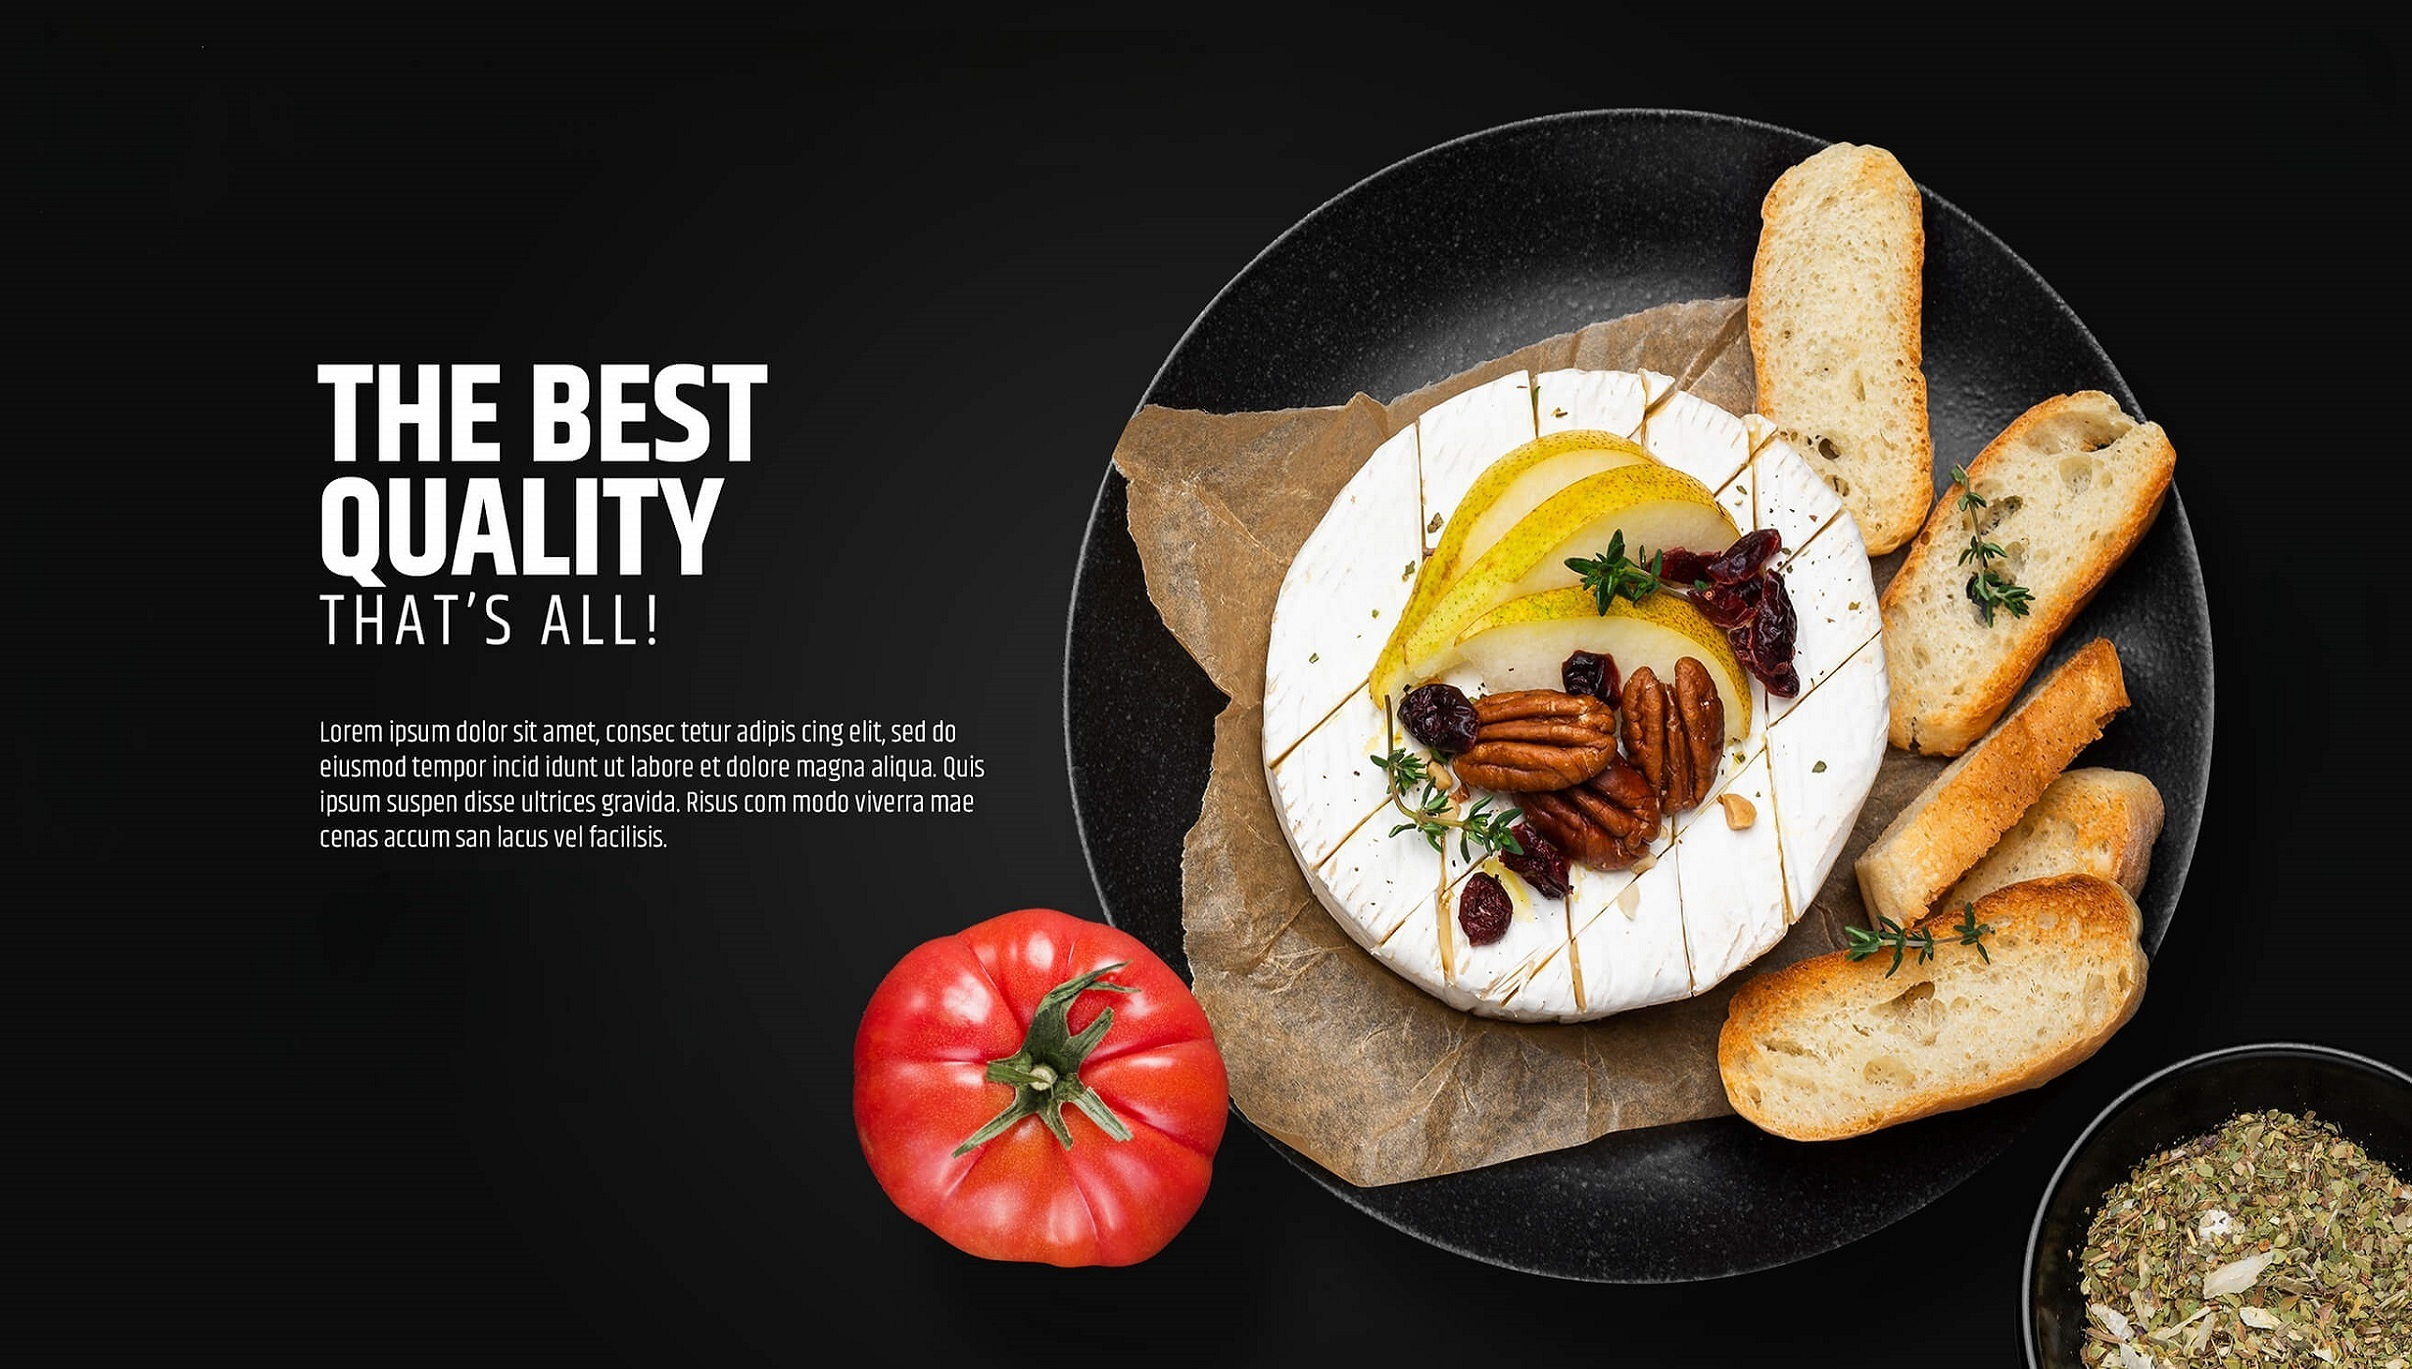
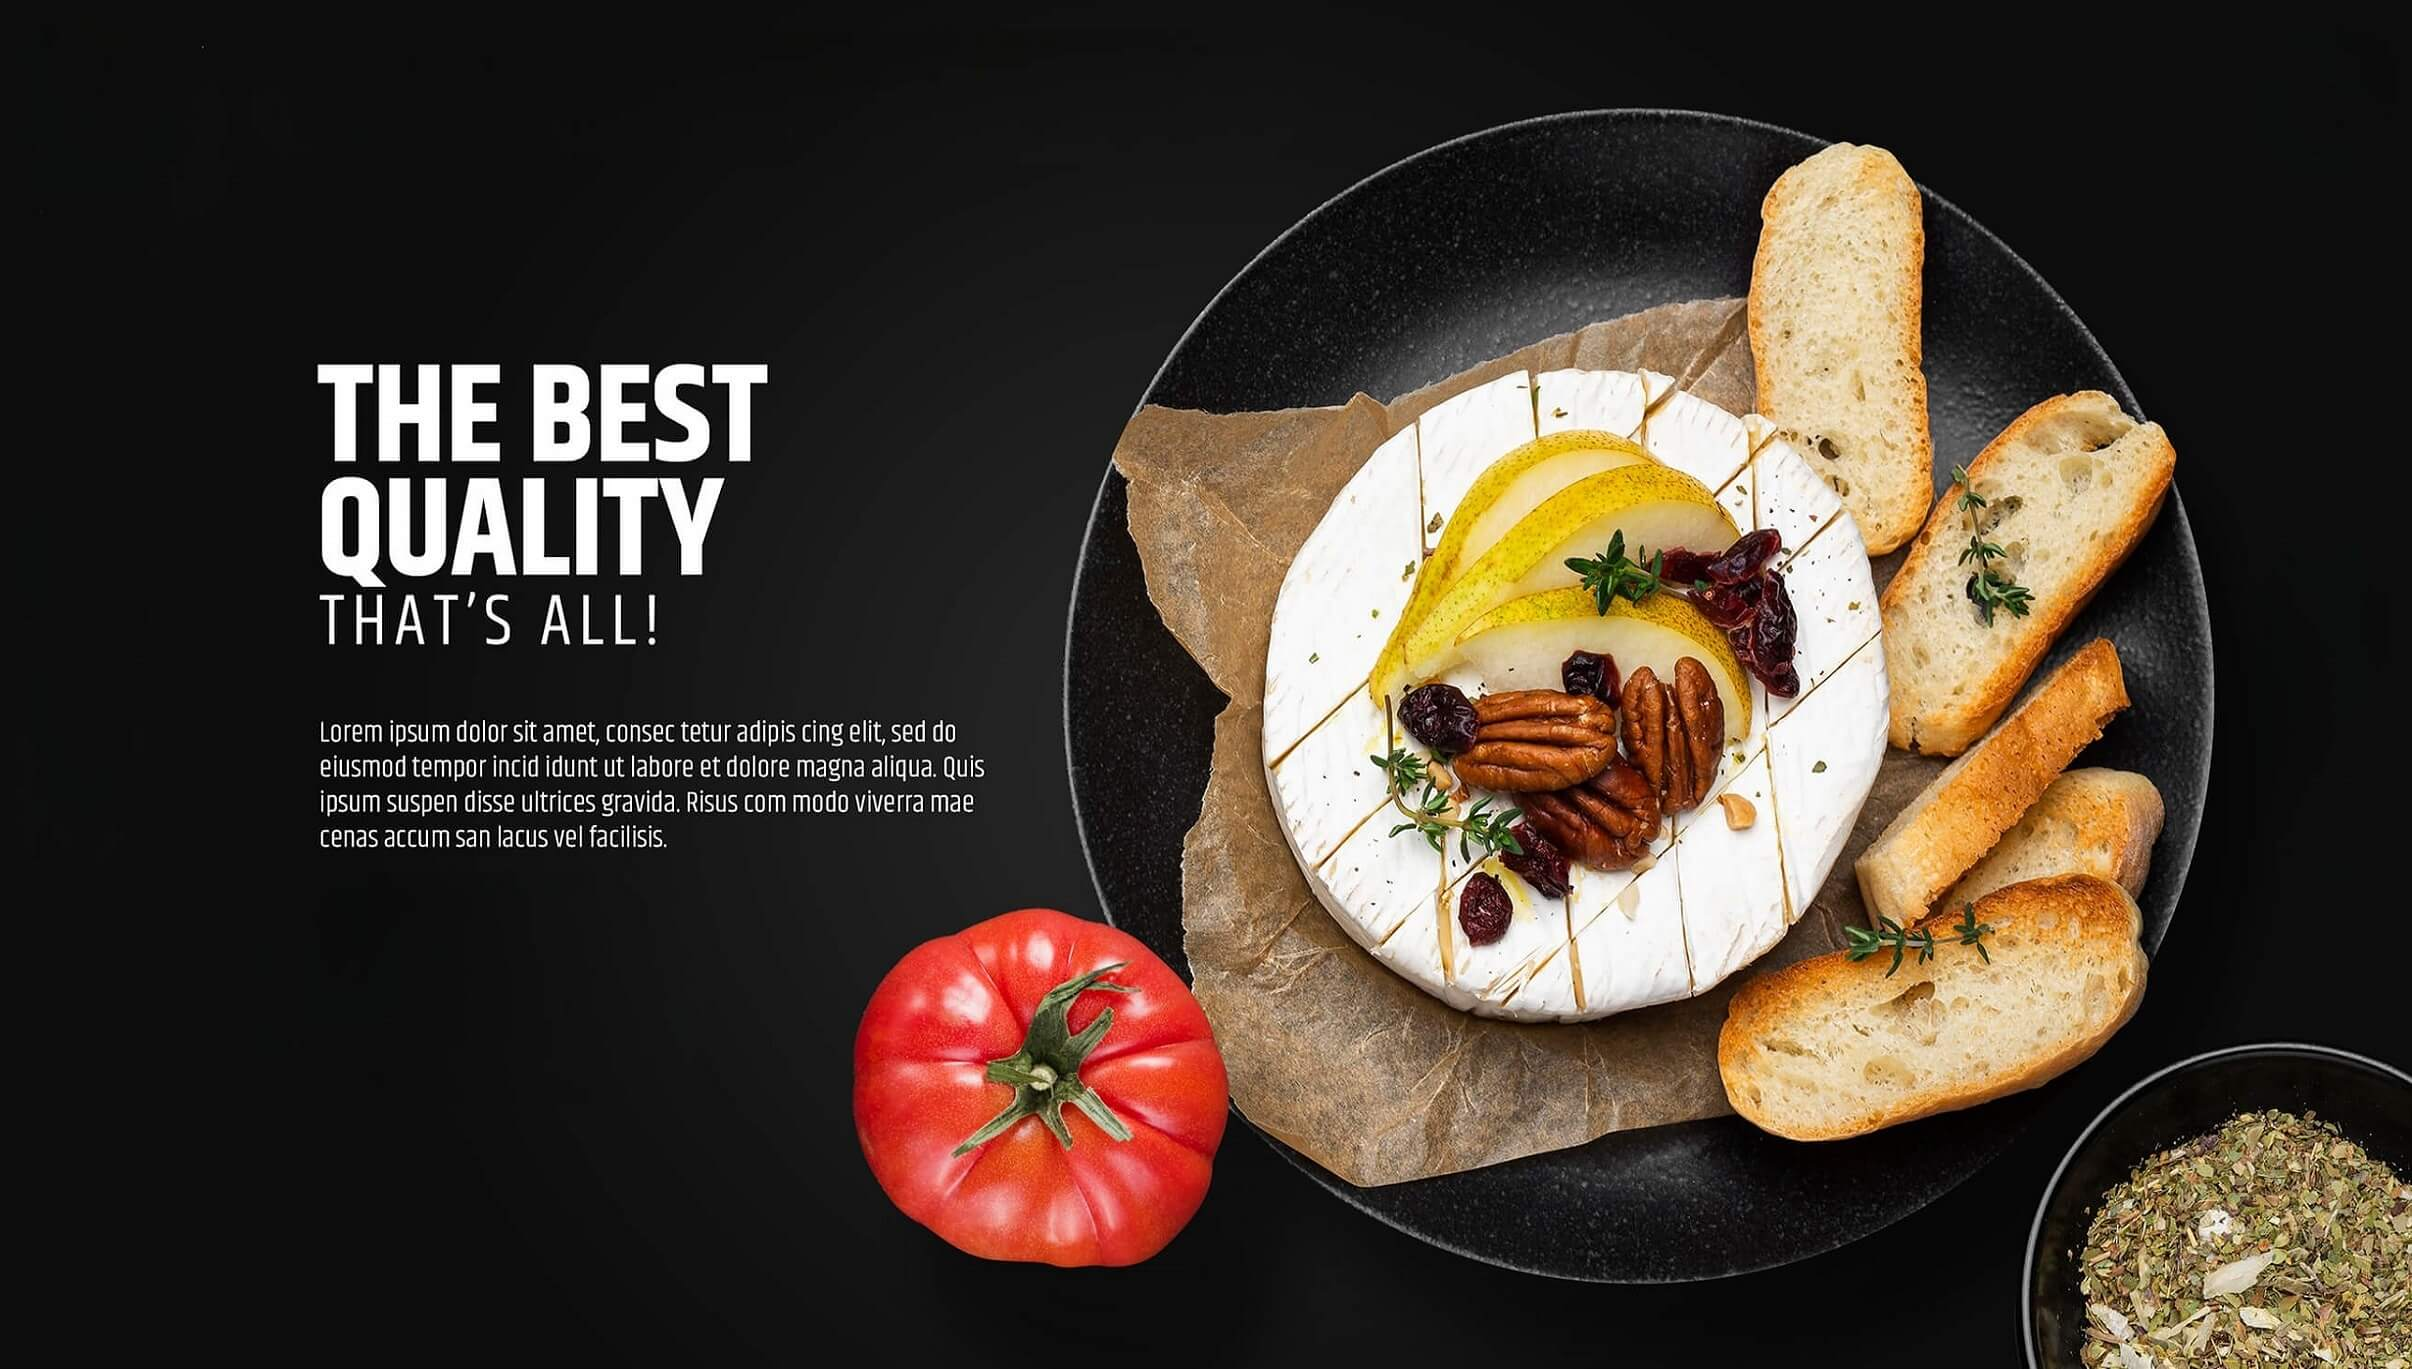
images more optimized

Changed region(s): [[0.995, 0.9511, 1.0, 1.0], [0.9328, 0.9817, 0.9639, 1.0]]

diff --git a/src/components/SocialLogin/SocialLogin.jsx b/src/components/SocialLogin/SocialLogin.jsx
@@ -30,7 +30,7 @@ const SocialLogin = () => {
               openModal({
                 title: `Welcome ${result.user.displayName} to Crave Station!!!`,
                 message: "Please check your email for exclusive offers!",
-                autoCloseTime: 6000,
+                autoCloseTime: 3000,
               });
             }
           });
@@ -39,7 +39,7 @@ const SocialLogin = () => {
           navigate(location?.state?.from || "/");
           openModal({
             title: `Welcome Back ${result.user.displayName} to Crave Station!!!`,
-            autoCloseTime: 4000,
+            autoCloseTime: 3000,
           });
         }
       })

diff --git a/src/Firebase/firebase.config.js b/src/Firebase/firebase.config.js
@@ -13,7 +13,6 @@ const firebaseConfig = {
   messagingSenderId:import.meta.env.VITE_FIREBASE_MESSAGING_SENDER_ID,
   appId: import.meta.env.VITE_FIREBASE_APP_ID
 };
-('inside api',import.meta.env.VITE_FIREBASE_API_KEY)
 
 // Initialize Firebase
 export const app = initializeApp(firebaseConfig);
